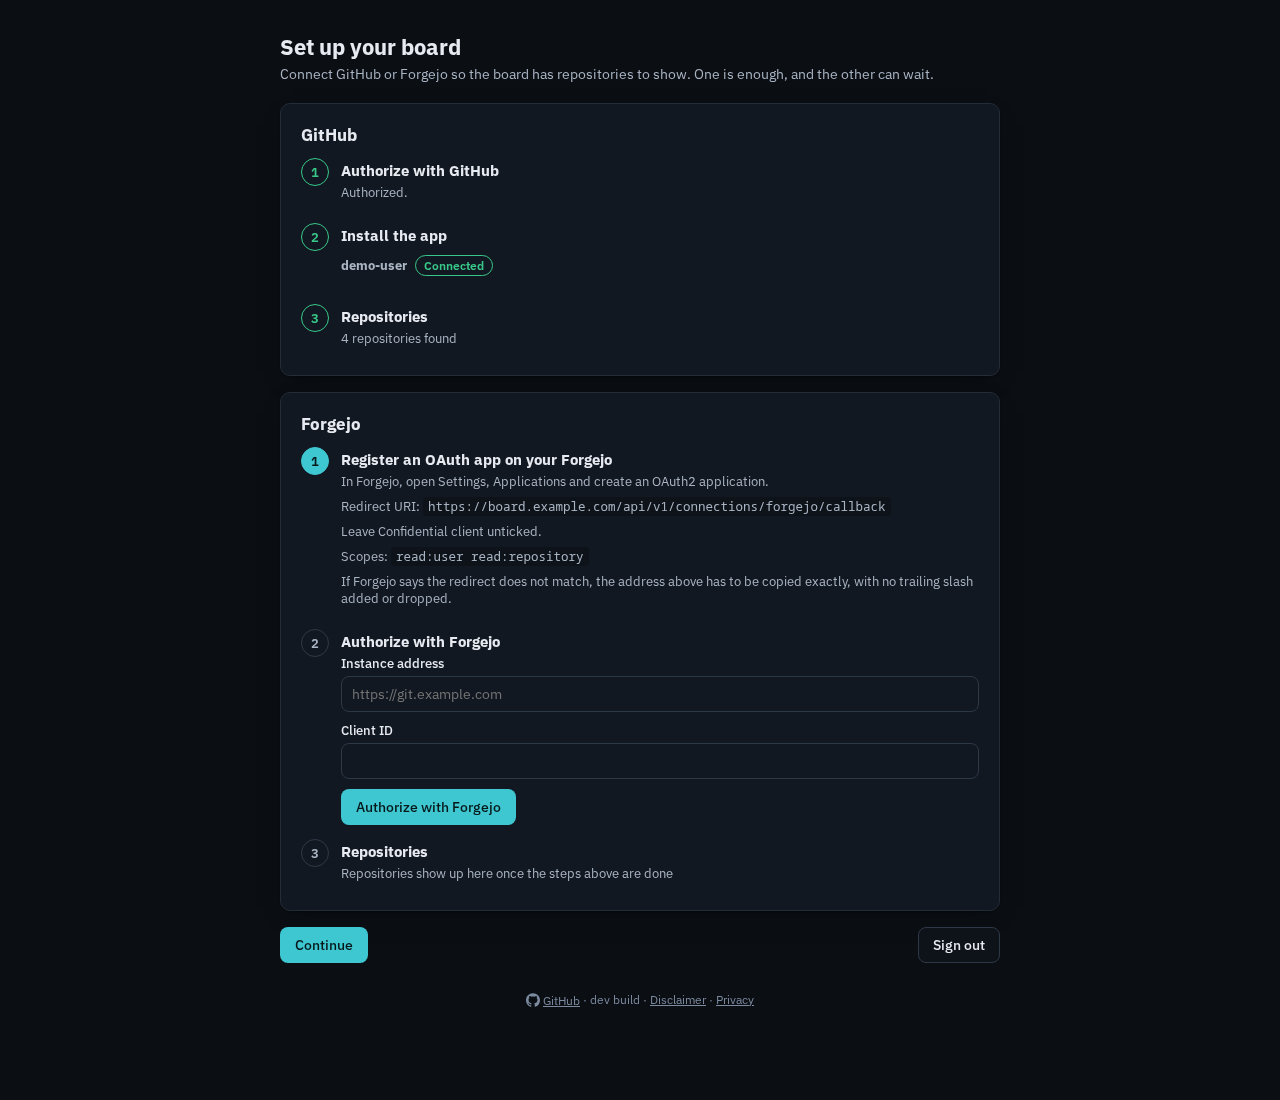
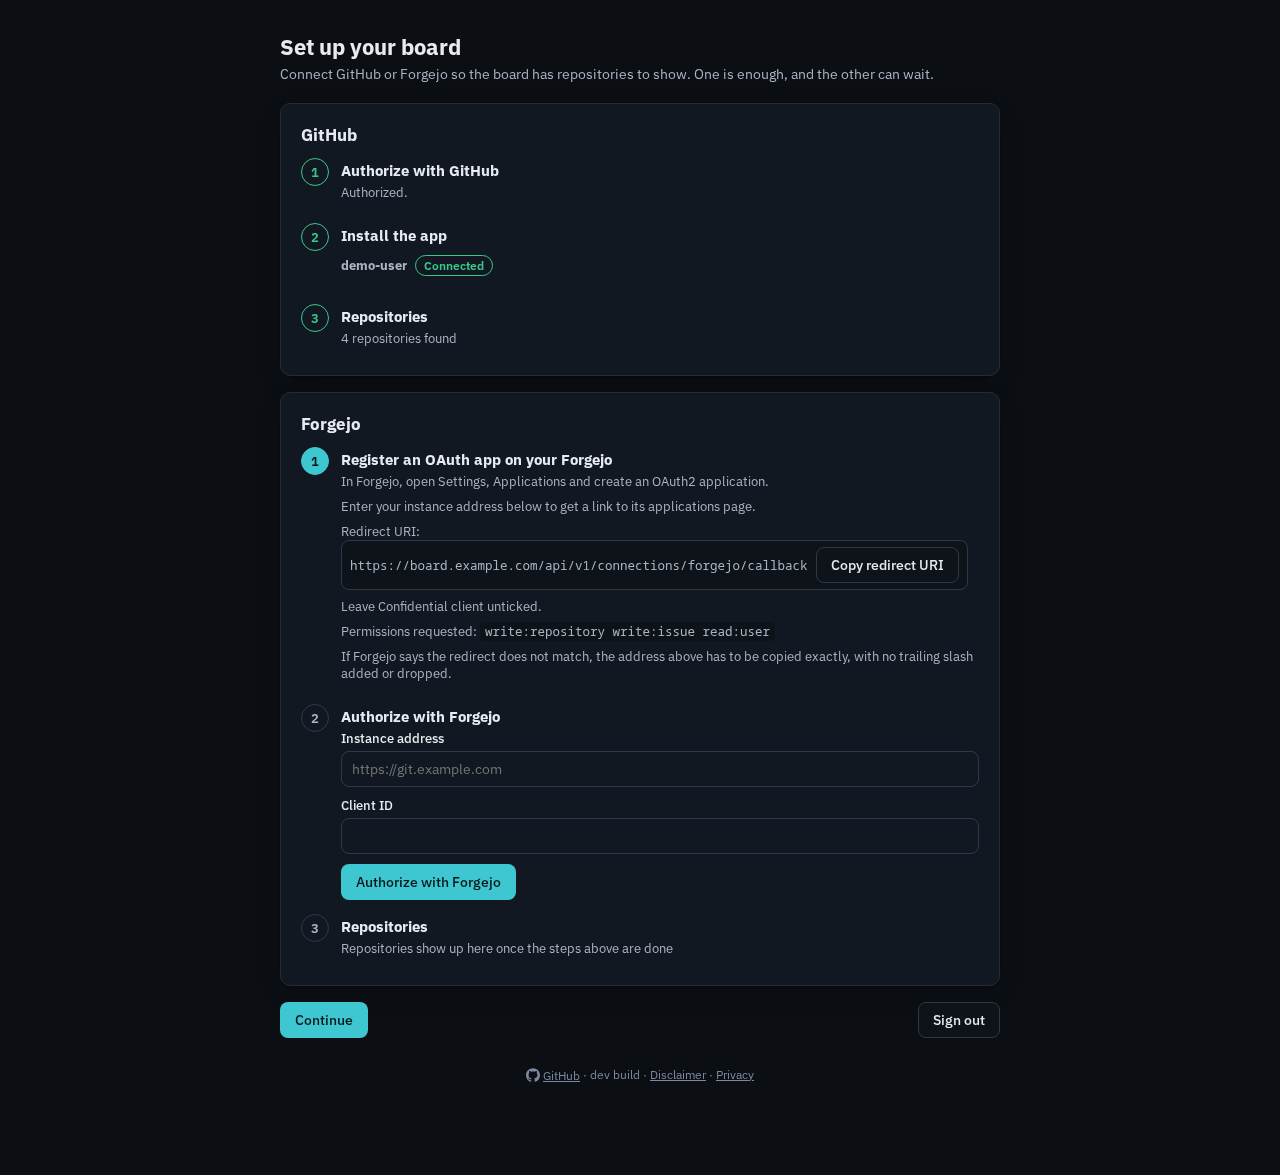
docs: retake the setup screenshots with the new copy and the real scopes
Refs #4026

diff --git a/scripts/capture-screenshots.ts b/scripts/capture-screenshots.ts
@@ -41,7 +41,7 @@ const SETUP_FACTS = {
   forgejo: {
     redirectUri:
       'https://board.example.com/api/v1/connections/forgejo/callback',
-    scopes: ['read:user', 'read:repository'],
+    scopes: ['write:repository', 'write:issue', 'read:user'],
     instanceUrl: '',
     linked: false,
     account: '',
